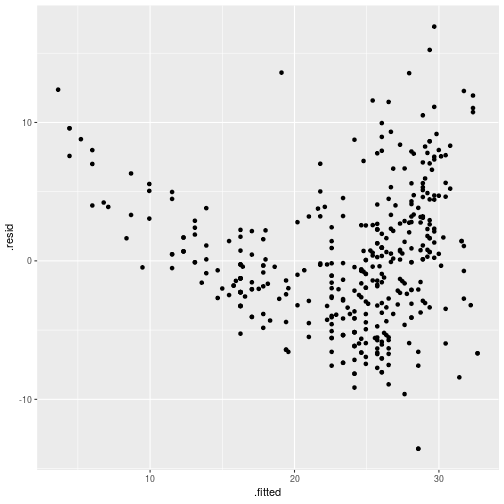
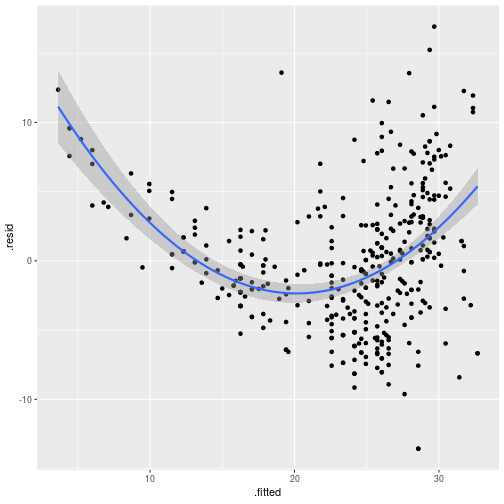
Section 9 of applied

Changed region(s): [[0.0893, 0.1488, 0.9524, 0.625]]

diff --git a/Chapter_3/applied.md b/Chapter_3/applied.md
@@ -108,15 +108,90 @@ First off, lets have a look at the residuals versus the leverage:
 augment(lm_auto) %>% ggplot(aes(.hat, .resid)) + geom_point()
 ```
 
-![plot of chunk applied_auto_resid_v_fitted](figure/applied_auto_resid_v_fitted-1.png)
+![plot of chunk applied_auto_leverage_v_fitted](figure/applied_auto_leverage_v_fitted-1.png)
 
-Now we look at the fitted versus the residuals:
+There are a few points up in the top right. We take a look at the Cook's distance for the observations.
+
 
 ```r
-augment(lm_auto) %>% ggplot(aes(.fitted, .resid)) + geom_point()
+augment(lm_auto) %>% mutate(i = 1:n()) %>% ggplot(aes(i, .cooksd)) + geom_bar(stat = 'identity')
+```
+
+![plot of chunk applied_auto_cooks_distance](figure/applied_auto_cooks_distance-1.png)
+
+A couple of high points but all below 1.
+
+Now we look at the fitted versus the residuals, and also fit a quadratic regression. We see a bit of a U shape, indicating potential non-linearity in the data.
+
+```r
+augment(lm_auto) %>% ggplot(aes(.fitted, .resid)) + geom_point() + geom_smooth(method = 'lm', formula = 'y ~ poly(x,2)')
 ```
 
 ![plot of chunk applied_auto_fitted_v_residuals](figure/applied_auto_fitted_v_residuals-1.png)
+
+## 9) Multiple Linear Regression - Auto Data Set
+
+
+```r
+library(GGally)
+library(corrplot)
+```
+
+### a)
+*Produce a scatterplot matrix which includes all the data in the data set*
+
+```r
+auto %>% select(-'name') %>% ggpairs()
+```
+
+![plot of chunk applied_mult_auto_pairs](figure/applied_mult_auto_pairs-1.png)
+
+### b)
+*Compute the matrix of correlations between the variables.*
+
+```r
+auto %>% select(-'name') %>% cor() %>% corrplot(method = 'color')
+```
+
+![plot of chunk applied_mult_auto_corr](figure/applied_mult_auto_corr-1.png)
+
+### c)
+*Perform a multiple linear regression with `mpg` as the response and all other variables except `name` as the predictors.*
+
+
+```r
+lin_reg_auto <- lm(mpg ~ . -name, auto)
+tidy(lin_reg_auto)
+```
+
+```
+## # A tibble: 8 x 5
+##   term          estimate std.error statistic  p.value
+##   <chr>            <dbl>     <dbl>     <dbl>    <dbl>
+## 1 (Intercept)  -17.2      4.64        -3.71  2.40e- 4
+## 2 cylinders     -0.493    0.323       -1.53  1.28e- 1
+## 3 displacement   0.0199   0.00752      2.65  8.44e- 3
+## 4 horsepower    -0.0170   0.0138      -1.23  2.20e- 1
+## 5 weight        -0.00647  0.000652    -9.93  7.87e-21
+## 6 acceleration   0.0806   0.0988       0.815 4.15e- 1
+## 7 year           0.751    0.0510      14.7   3.06e-39
+## 8 origin         1.43     0.278        5.13  4.67e- 7
+```
+
+```r
+glance(lin_reg_auto)
+```
+
+```
+## # A tibble: 1 x 11
+##   r.squared adj.r.squared sigma statistic   p.value    df logLik   AIC
+## *     <dbl>         <dbl> <dbl>     <dbl>     <dbl> <int>  <dbl> <dbl>
+## 1     0.821         0.818  3.33      252. 2.04e-139     8 -1023. 2065.
+## # ... with 3 more variables: BIC <dbl>, deviance <dbl>, df.residual <int>
+```
+
+
+
 
 
 
